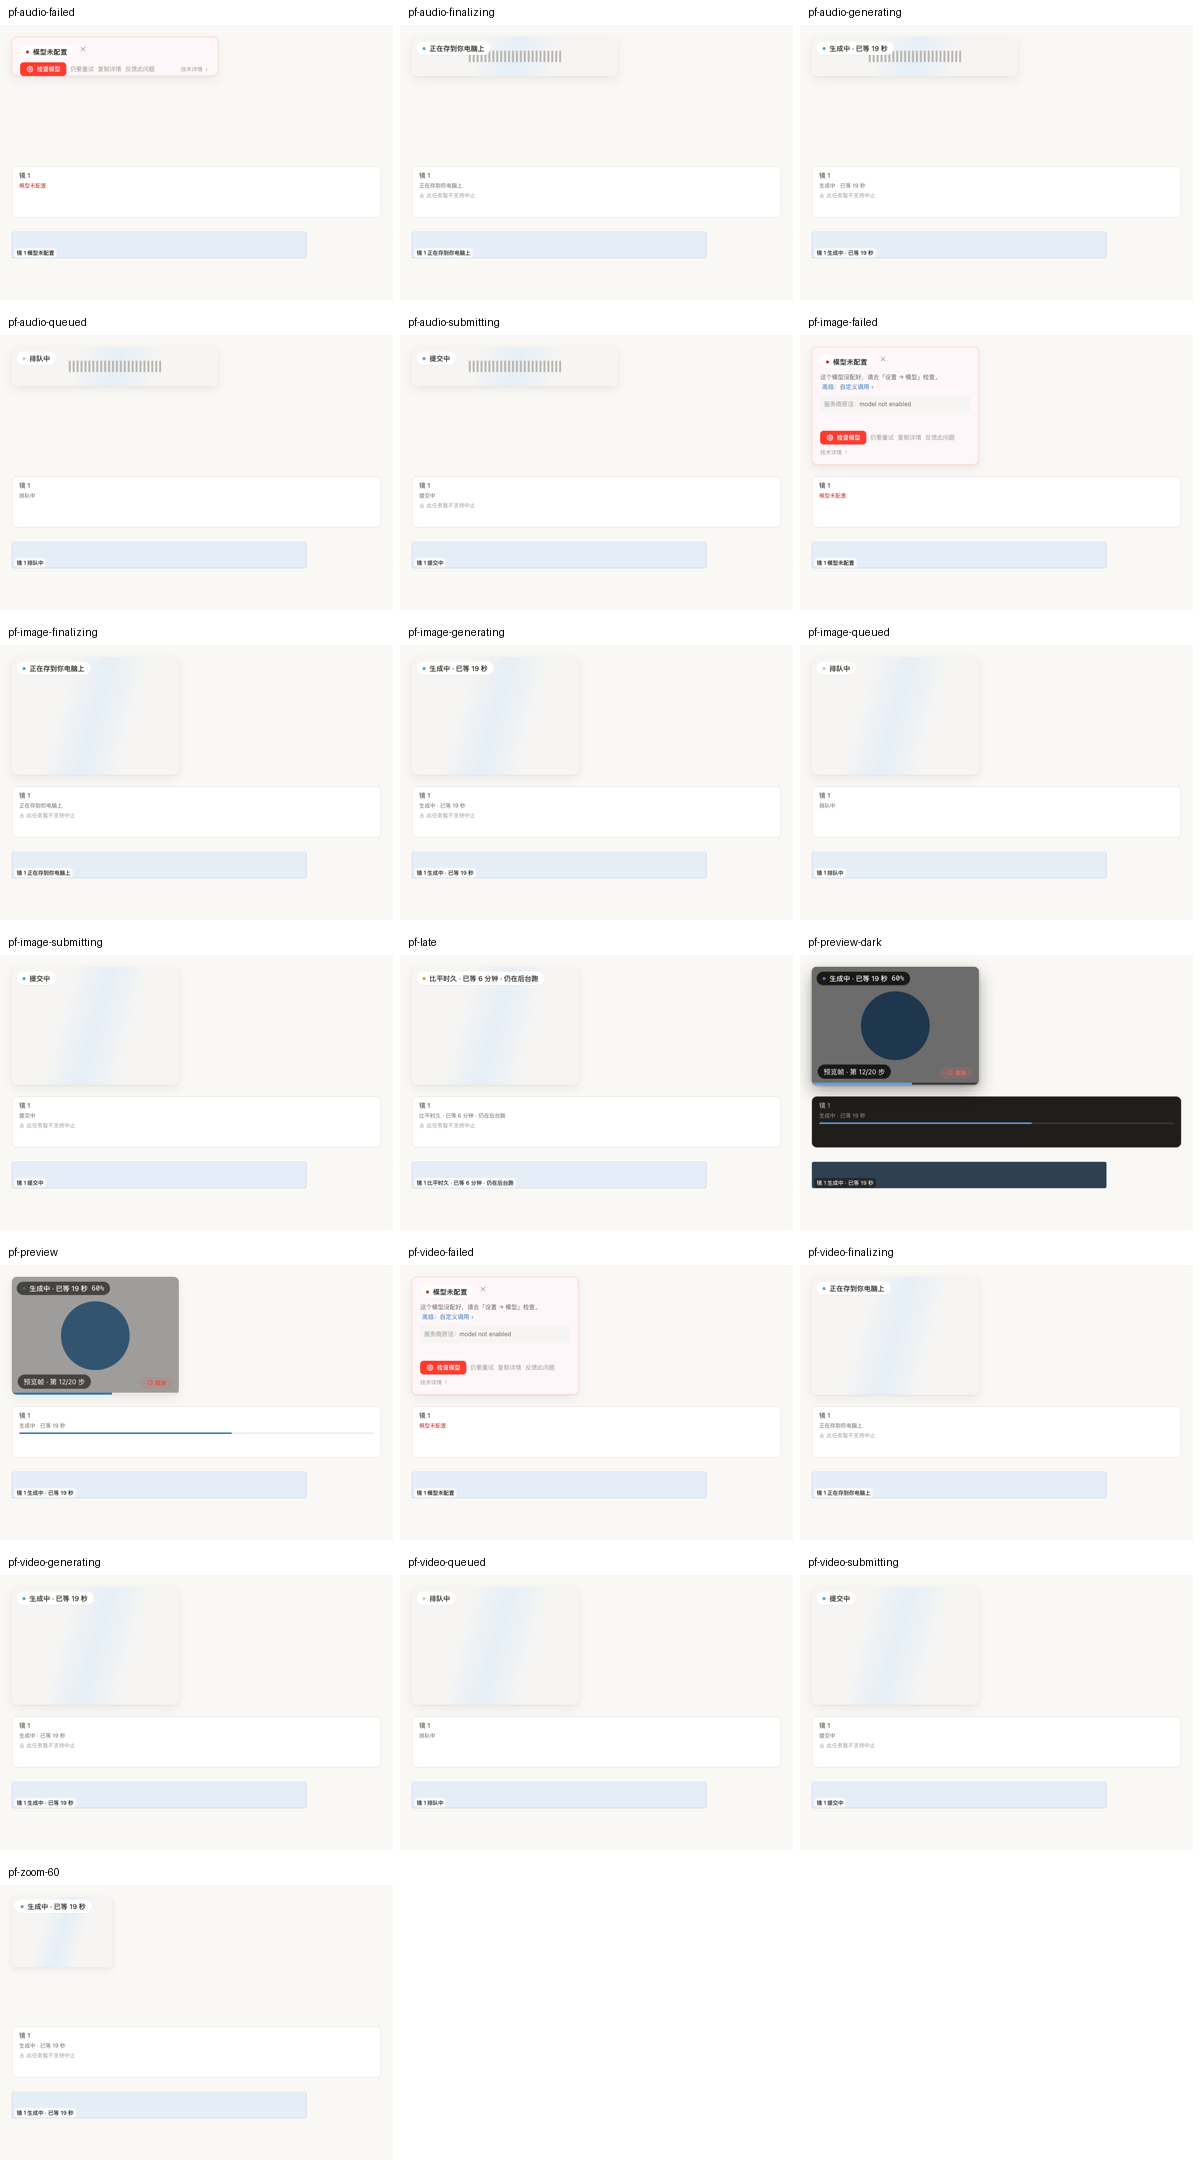
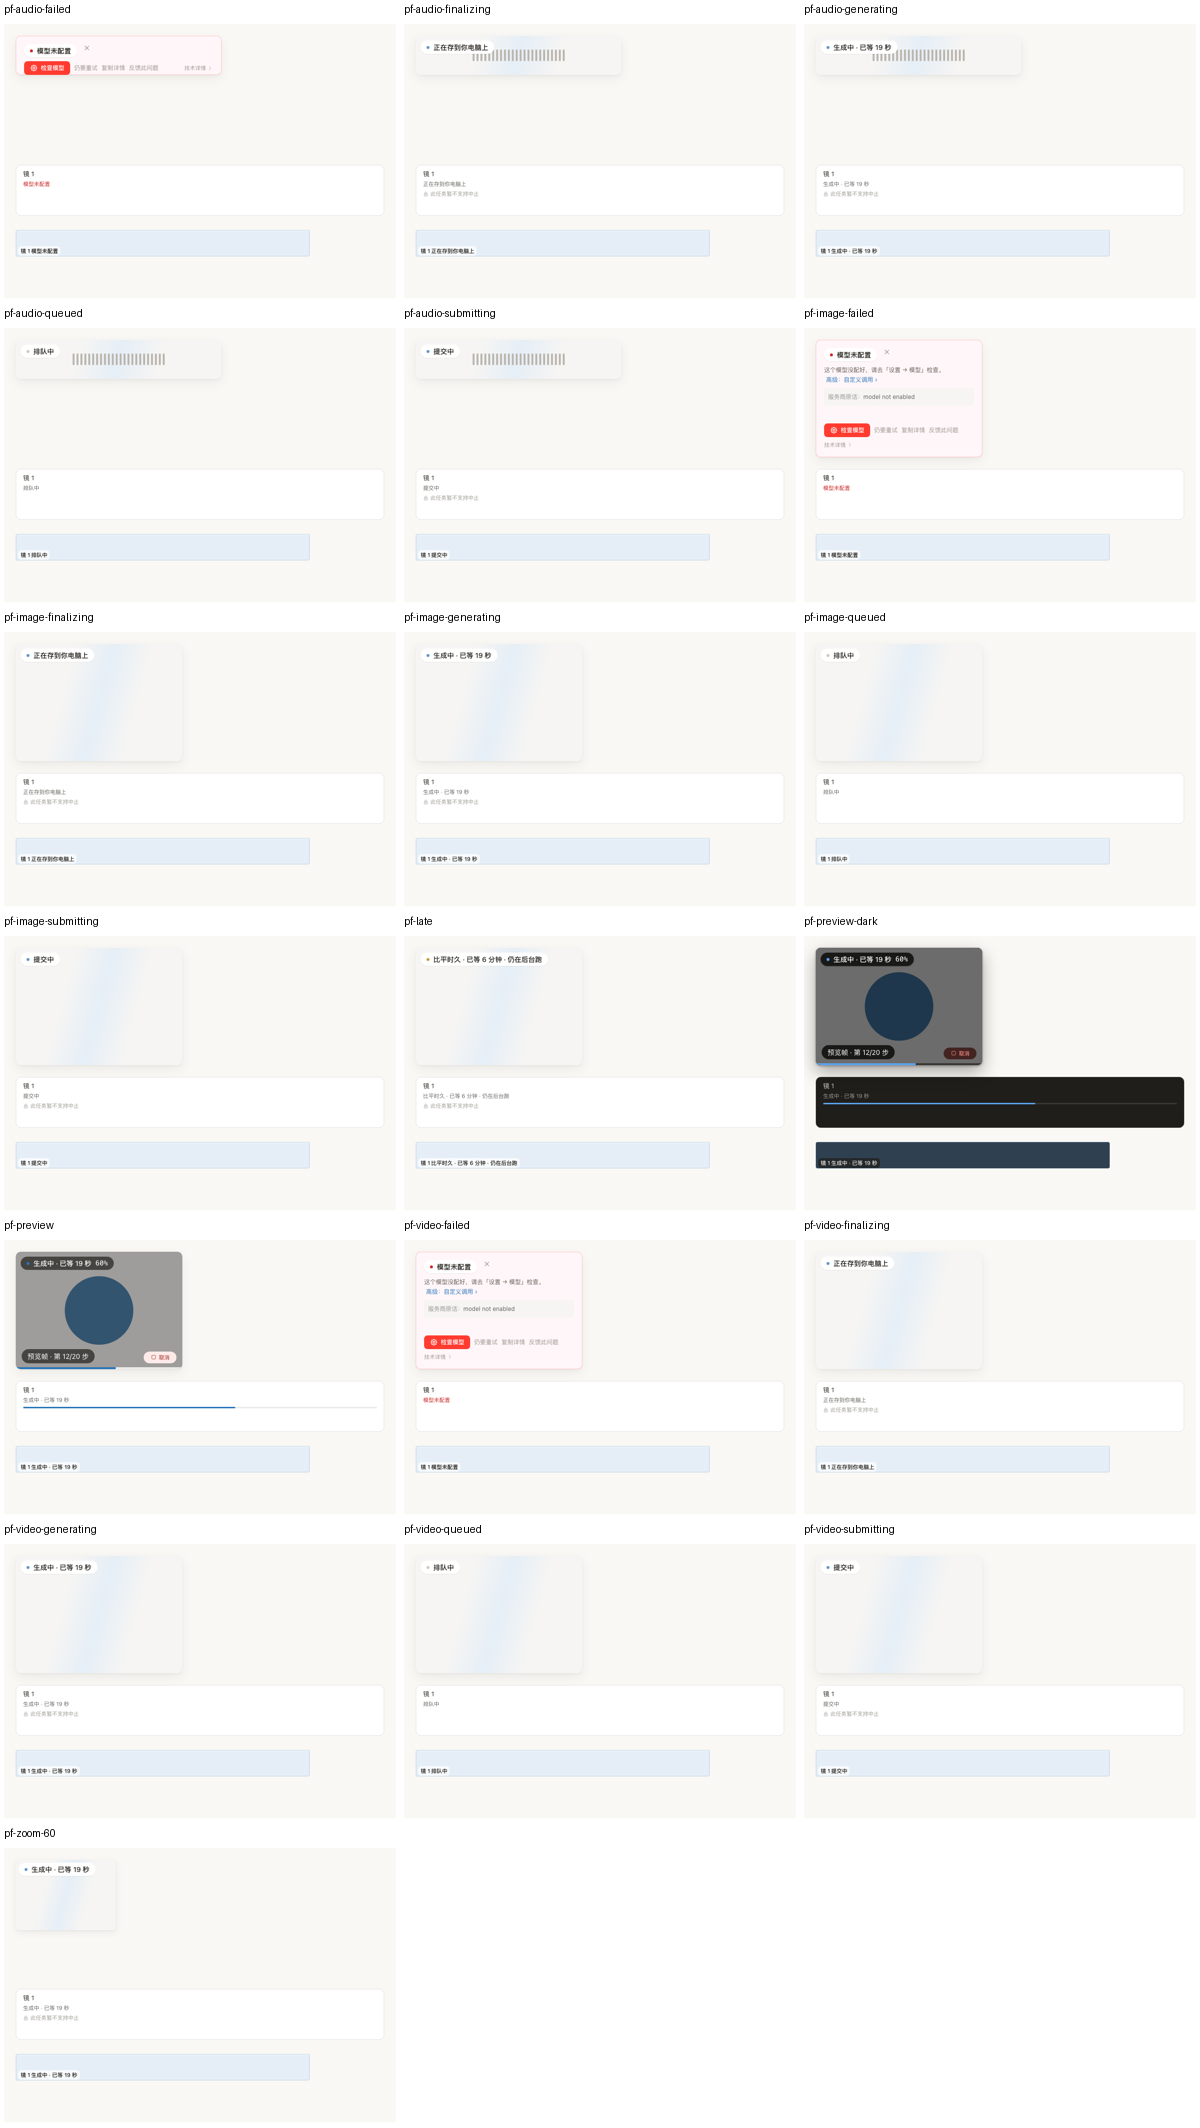
test: align preview evidence with merged semantic cancel colors

diff --git a/docs/plan/process-feedback-evidence/red-green.md b/docs/plan/process-feedback-evidence/red-green.md
@@ -298,3 +298,7 @@ undefined
 - 改用 `_launchApp.mjs` 的隔离真实 Nomi 进程及 `_assert.mjs` 的 proveProbe → expectAbsent；两条门岗均转绿，无基线放宽。
 - Electron 导航会重置媒体仿真，测试在导航后设置 reducedMotion；matchMedia 实测 false → true，未修改生产动效。
 - 两份 process-feedback E2E 再跑通过；真实 Nomi 窗口截图已由主会话查看。
+
+## 设计系统 #654 合并核对
+
+重新生成 Tailwind 后设计系统 31 用例通过；过程反馈仅两张真帧的取消按钮受 main 已批准 danger-soft 语义色影响。主会话查看明暗实际图、旧图与差异图后，仅重录 pf-preview / pf-preview-dark，2 用例通过，其余基线不变。
